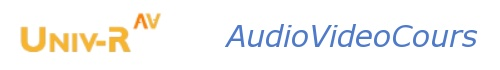
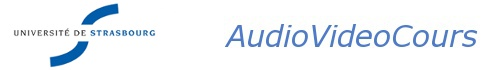
* to avoid the lack of a Flash Player pluging for Internet Explorer 64bits the application will launch the default web browser (assuming the user browser have Flash plugin working) * the preview feature is now using the web browser by default instead of Real Player * the DOS console is now hidden wh
git-svn-id: https://subversion.renater.fr/audiovideocours/trunk/client_and_standalone@982 f5520b42-8414-0410-9ae7-91ee0cd12377

Changed region(s): [[0.03, 0.1714, 0.33, 0.9714], [0.15, 0.0286, 0.24, 0.3714]]

diff --git a/MediaCours.py b/MediaCours.py
@@ -22,7 +22,7 @@
 #*******************************************************************************
 
 
-__version__="1.21-2"
+__version__="1.21"
 
 ## Python import (base Python 2.4)
 import sys,os,time,datetime,tarfile,ConfigParser,threading,shutil,gettext,zipfile
@@ -1508,7 +1508,8 @@ class EndingFrame(wx.Frame):
         self.statusBar=self.CreateStatusBar()
         self.statusBar.SetStatusText(_("Status bar"))
         panel=wx.Panel(self)
-        panel.SetBackgroundColour((244,180,56))
+        #panel.SetBackgroundColour((244,180,56))
+        panel.SetBackgroundColour("steel blue") 
         logos = wx.Image('images/ban1.jpg', wx.BITMAP_TYPE_ANY).ConvertToBitmap()
         textTitle = wx.StaticText(panel, -1, _("Title:"),size=(400,-1),style=wx.ALIGN_CENTER)
         entryTitle = wx.TextCtrl(panel, -1,"", size=(fieldSize, -1))
@@ -1534,7 +1535,7 @@ class EndingFrame(wx.Frame):
         linkWebsite.SetFont(wx.Font(11, wx.SWISS, wx.NORMAL,wx.NORMAL, False,'Arial'))
         linkWebsite.SetForegroundColour("white")
         linkWebsite.SetColours("white", "white", "white")
-        textWeb=wx.StaticText(panel,-1, _("Pour publier, cliquez sur 'Publier' et remplissez le forumlaire \n dans le navigateur qui se lancera."),size=(400,-1),style=wx.ALIGN_CENTER)
+        textWeb=wx.StaticText(panel,-1, _("Pour publier sur le serveur, cliquez sur 'Publier' et remplissez \nle forumlaire dans le navigateur qui se lancera."),size=(400,-1),style=wx.ALIGN_CENTER)
         textWeb.SetForegroundColour("white")
             
         for label in [textTitle,textDescription,textLastname,textFirstname,textTraining,textCode,
